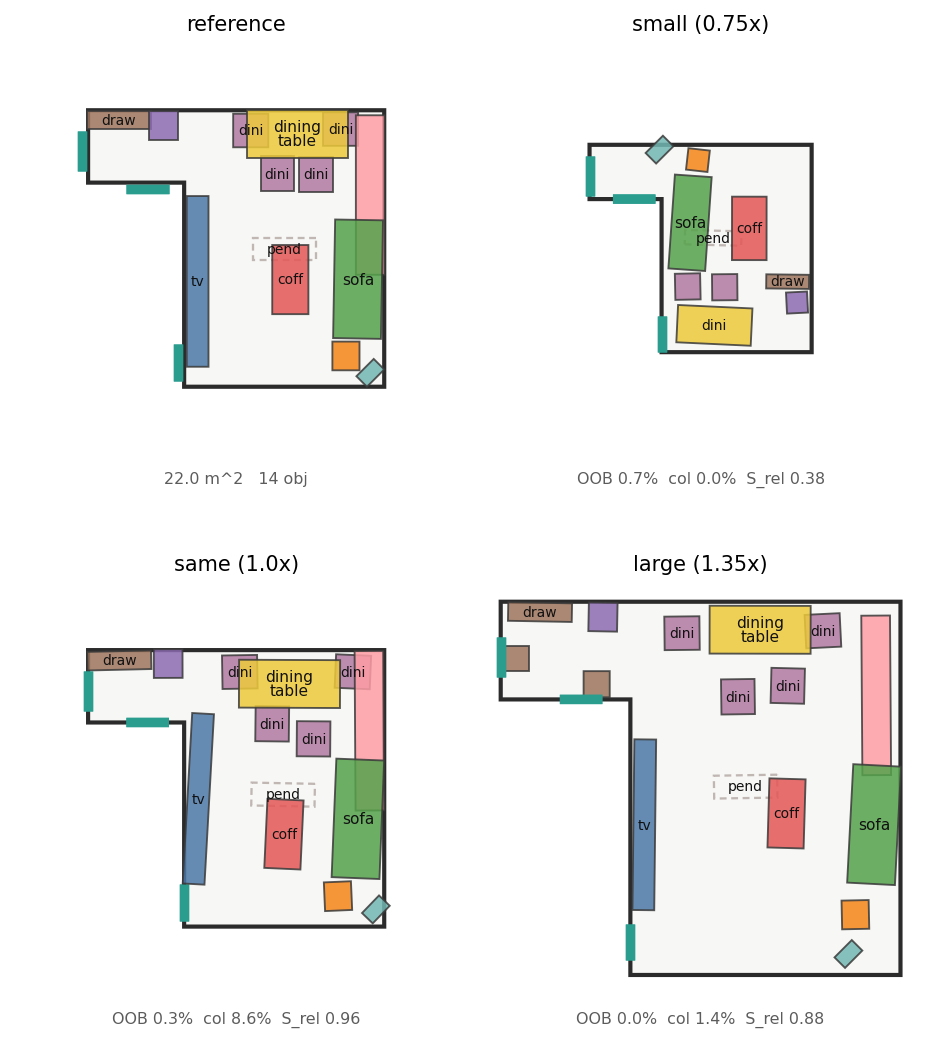
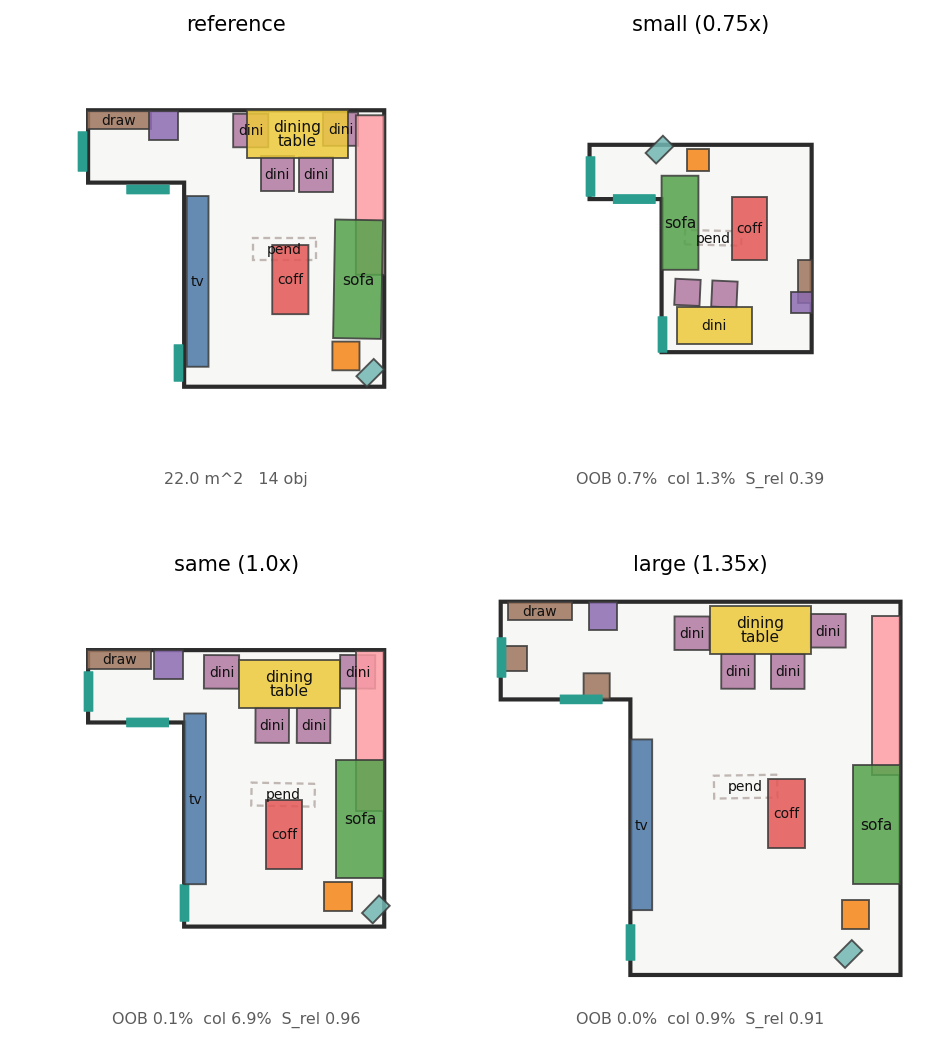
site: regularity projector (Step 1) — orthogonal/flush/slot snap, tidy main output

diff --git a/index.html b/index.html
@@ -77,7 +77,7 @@
 
 <figure>
   <img src="assets/three_sizes_r2m2full.png" alt="Three-sizes output — ReRoom 2.0 (r2m2full)">
-  <figcaption>同一份 22 m² L 形客廳 reference(左上),分別放入 0.75× / 1.0× / 1.35× 房間 &mdash; 目前 shipped 模型 <strong>ReRoom 2.0(<span class="mono">flow_r2m2full</span>)</strong>。1.0× 高度保留 reference(S_rel 0.96),1.35× 大房 TV 貼左牆、sofa 貼右牆(Module 2 牆面 attention 生效),餐椅隨房間彈性散開(elasticity)。詳細指標見下方「ReRoom 2.0」一節。</figcaption>
+  <figcaption>同一份 22 m² L 形客廳 reference(左上),分別放入 0.75× / 1.0× / 1.35× 房間 &mdash; 目前 shipped 模型 <strong>ReRoom 2.0(<span class="mono">flow_r2m2full</span>)+ 規整化投影(Step 1)</strong>。1.0× 幾乎完美重現 reference(S_rel 0.96):draw 貼左上牆、4 張餐椅平行桌邊成套環繞、TV 貼左牆、sofa 貼右牆;1.35× 大房餐桌+椅整組不散架、各件正交貼牆(S_rel 0.91)。詳細指標見下方「ReRoom 2.0」一節。</figcaption>
 </figure>
 
 <h3>6 場景平均實測(早期 planA baseline,供對照)</h3>
@@ -382,6 +382,15 @@ $$E_\text{wall-pull} = \lambda_w(\rho)\,\sum_i a_i\,\big(d_i^\text{back}\big)^2$
 </figure>
 
 <p class="note">實作:Module 1 於 <span class="mono">train.py</span>(<span class="mono">prior_x0</span>/<span class="mono">prior_noise</span>)+ <span class="mono">sample.py</span>;Module 2 於 <span class="mono">model.py</span> &mdash; 輕量版 <span class="mono">geo_bias</span>(dense pairwise bias + 每物件最近牆特徵)、完整版 <span class="mono">wall_tokens</span>(<span class="mono">WallCrossAttention</span>:邊界點為牆 token,家具↔牆 cross-attention + object→wall 邊 bias);Module 3/4 於 <span class="mono">xscene.py</span> / <span class="mono">train.py</span>(<span class="mono">rel_loss</span>)。<span class="mono">flow_r2m2full</span> 為 shipped 最佳 checkpoint。</p>
+
+<h3>規整化投影(Regularity Projector):讓視覺自動變整齊</h3>
+<p>一個關鍵觀察:連續空間的低 loss / 高 S_rel 容忍 5–10 cm 的<em>非正交偏移</em>,但人眼對「正交、貼合、成套」極度敏感 &mdash; 物件被當成高維空間的自由粒子,而非有人因約束與剛性槽位的設計群組。所以在 polish 後(eq 37 的 constraint projection 之內)加一道<strong>規整化投影</strong>,不需重訓:</p>
+<ul>
+  <li><strong>槽位吸附</strong> &mdash; 餐椅 / 書桌椅吸附到最近的桌邊,並<em>平行桌邊</em>(朝向 snap 到桌子自身的軸,而非朝桌心的對角),整組成套不散架。</li>
+  <li><strong>貼牆 flush + 法線朝向</strong> &mdash; 掛畫、衣櫃、電視櫃、床、沙發等貼牆件,背面直接投影到最近牆線、朝向設為該牆內法線,絕不懸空或斜插。</li>
+  <li><strong>Manhattan 正交 snap</strong> &mdash; 茶几 / 餐桌 / 邊桌等自由正交件,朝向 snap 到最近牆軸(容差 22°),消除 3–15° 的「微醺」傾斜。</li>
+</ul>
+<p>效果見上方主圖:1.0× 幾乎完美重現 reference,1.35× 大房家具正交貼牆、餐椅整齊環桌。實作 <span class="mono">reroom/retarget/regularity.py</span>,由 <span class="mono">RetargetConfig.regularity_snap</span> 開啟。這是 Step 1(polish 層,最快見效);Step 2(把 motif child 的 flow 輸出改為相對 parent 的 local offset,根本杜絕大房拉扯)為後續。</p>
 
 <footer>
 Repo:<a href="https://github.com/gino6178/project4">github.com/gino6178/project4</a>
